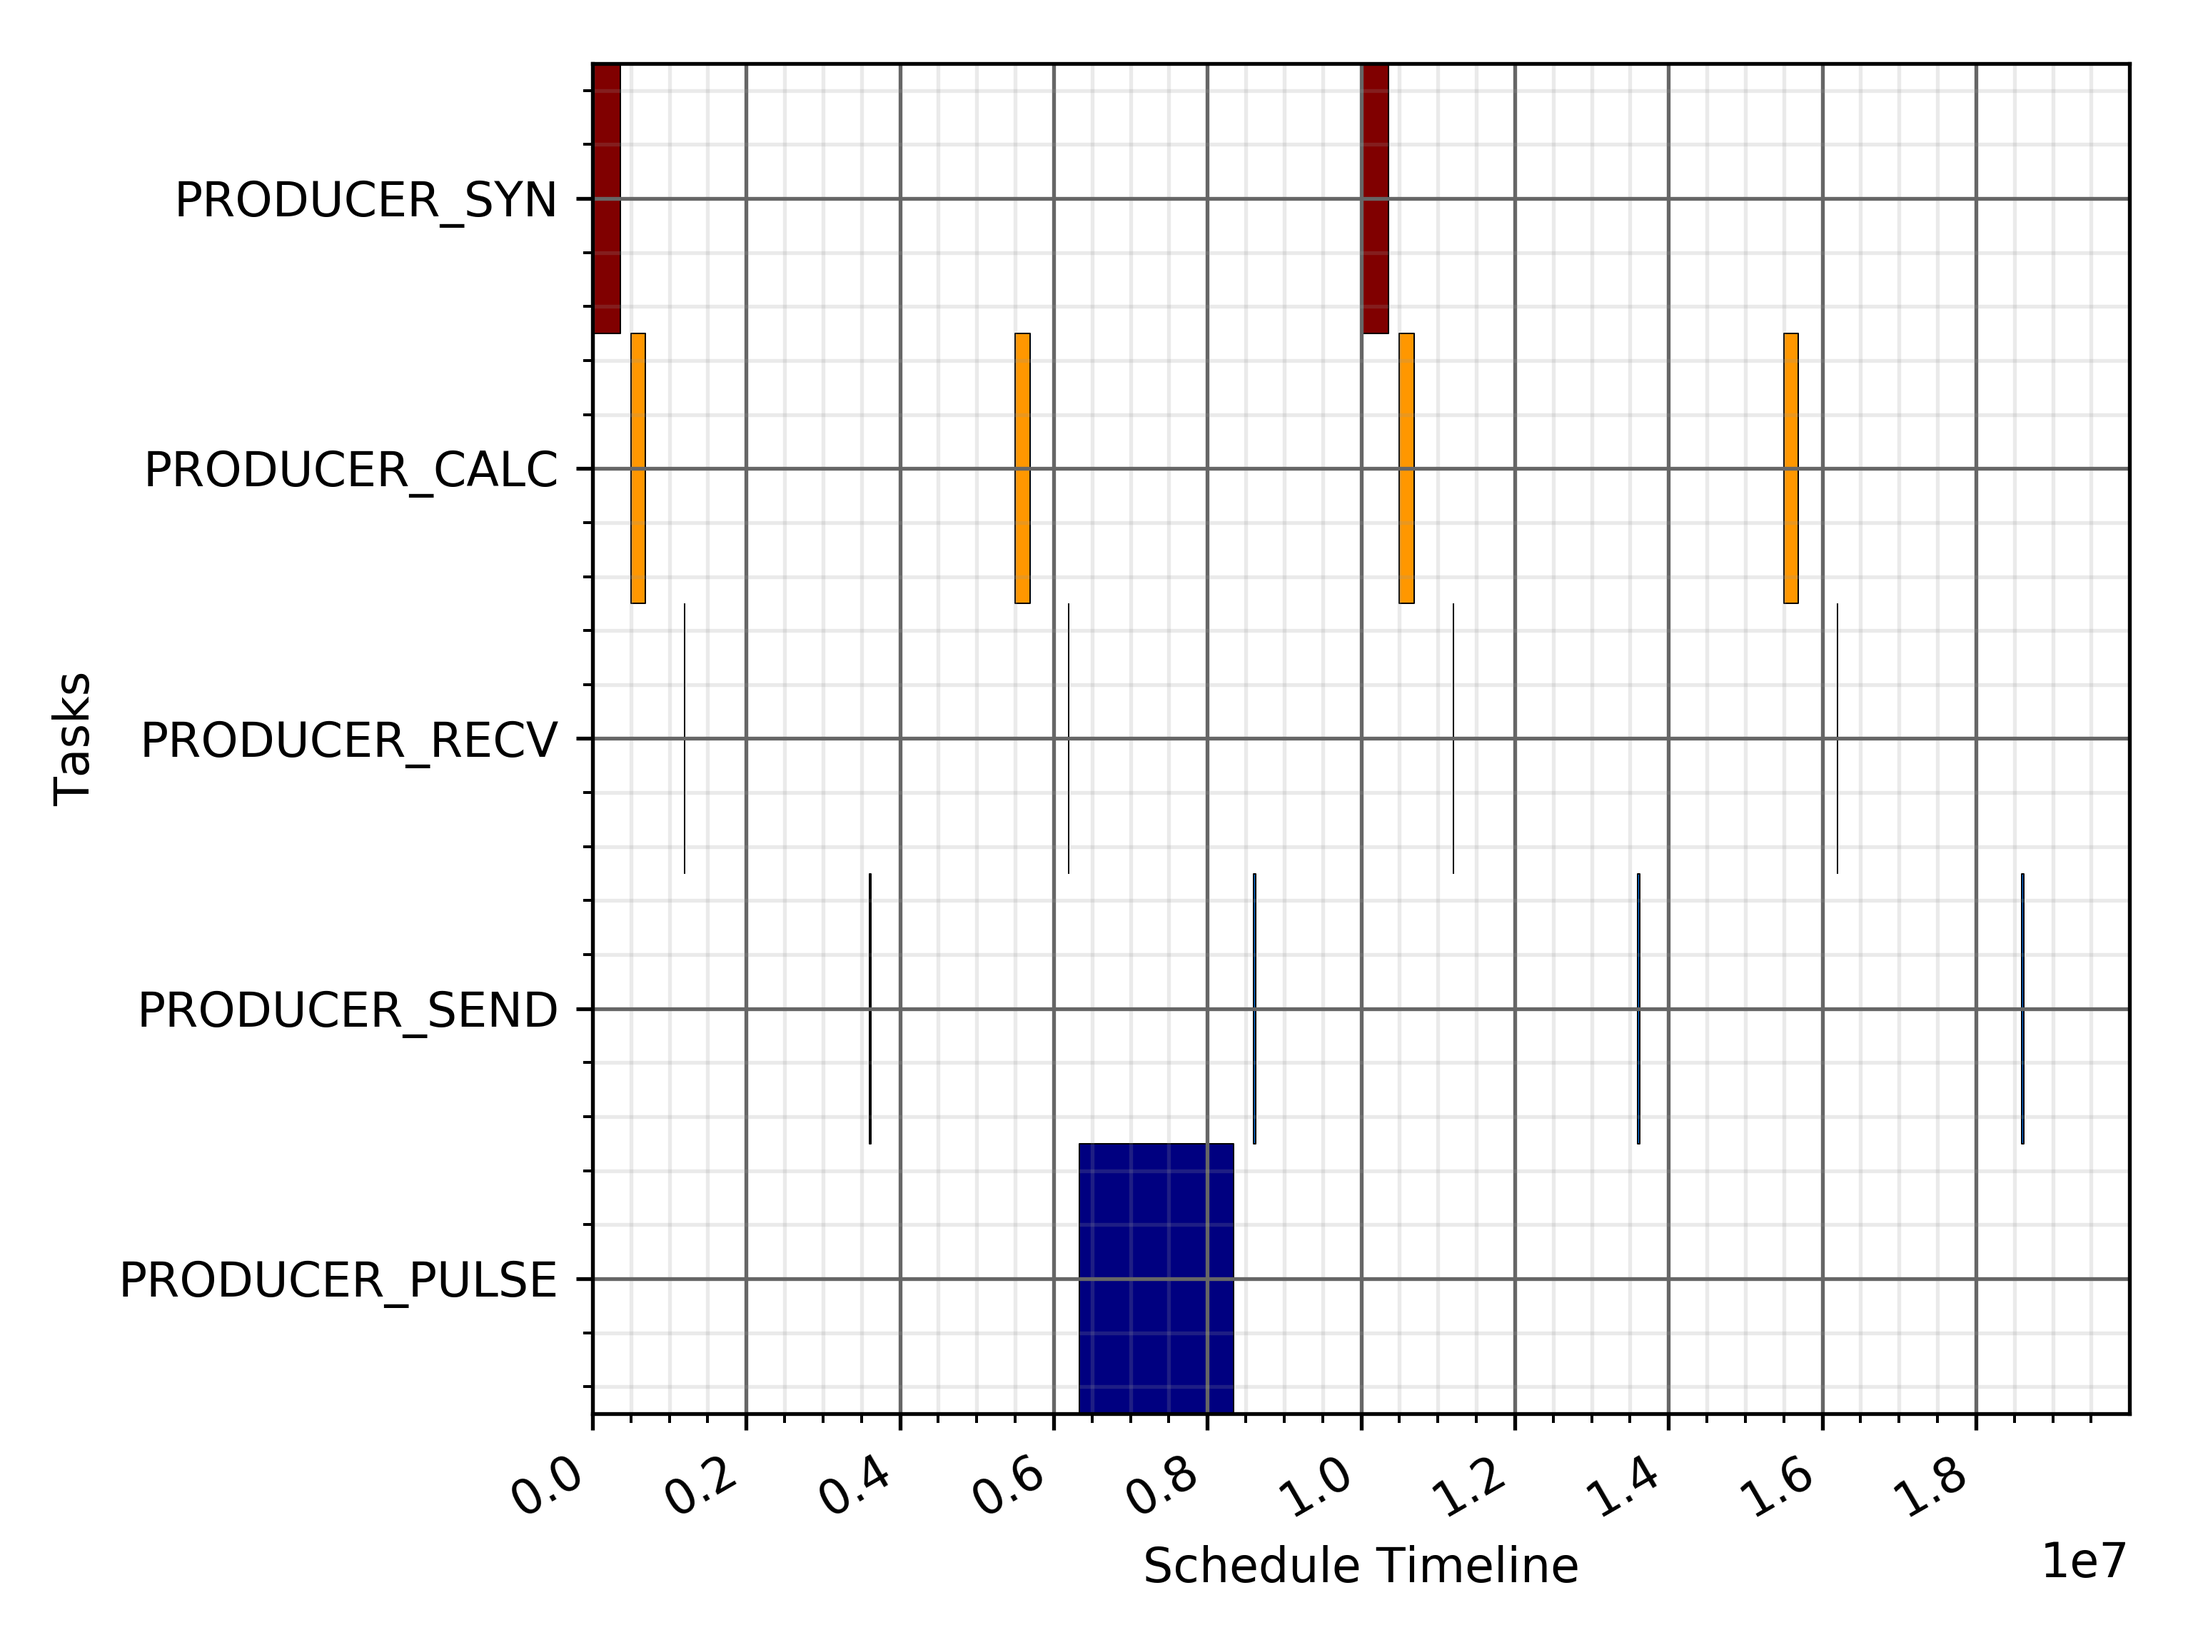
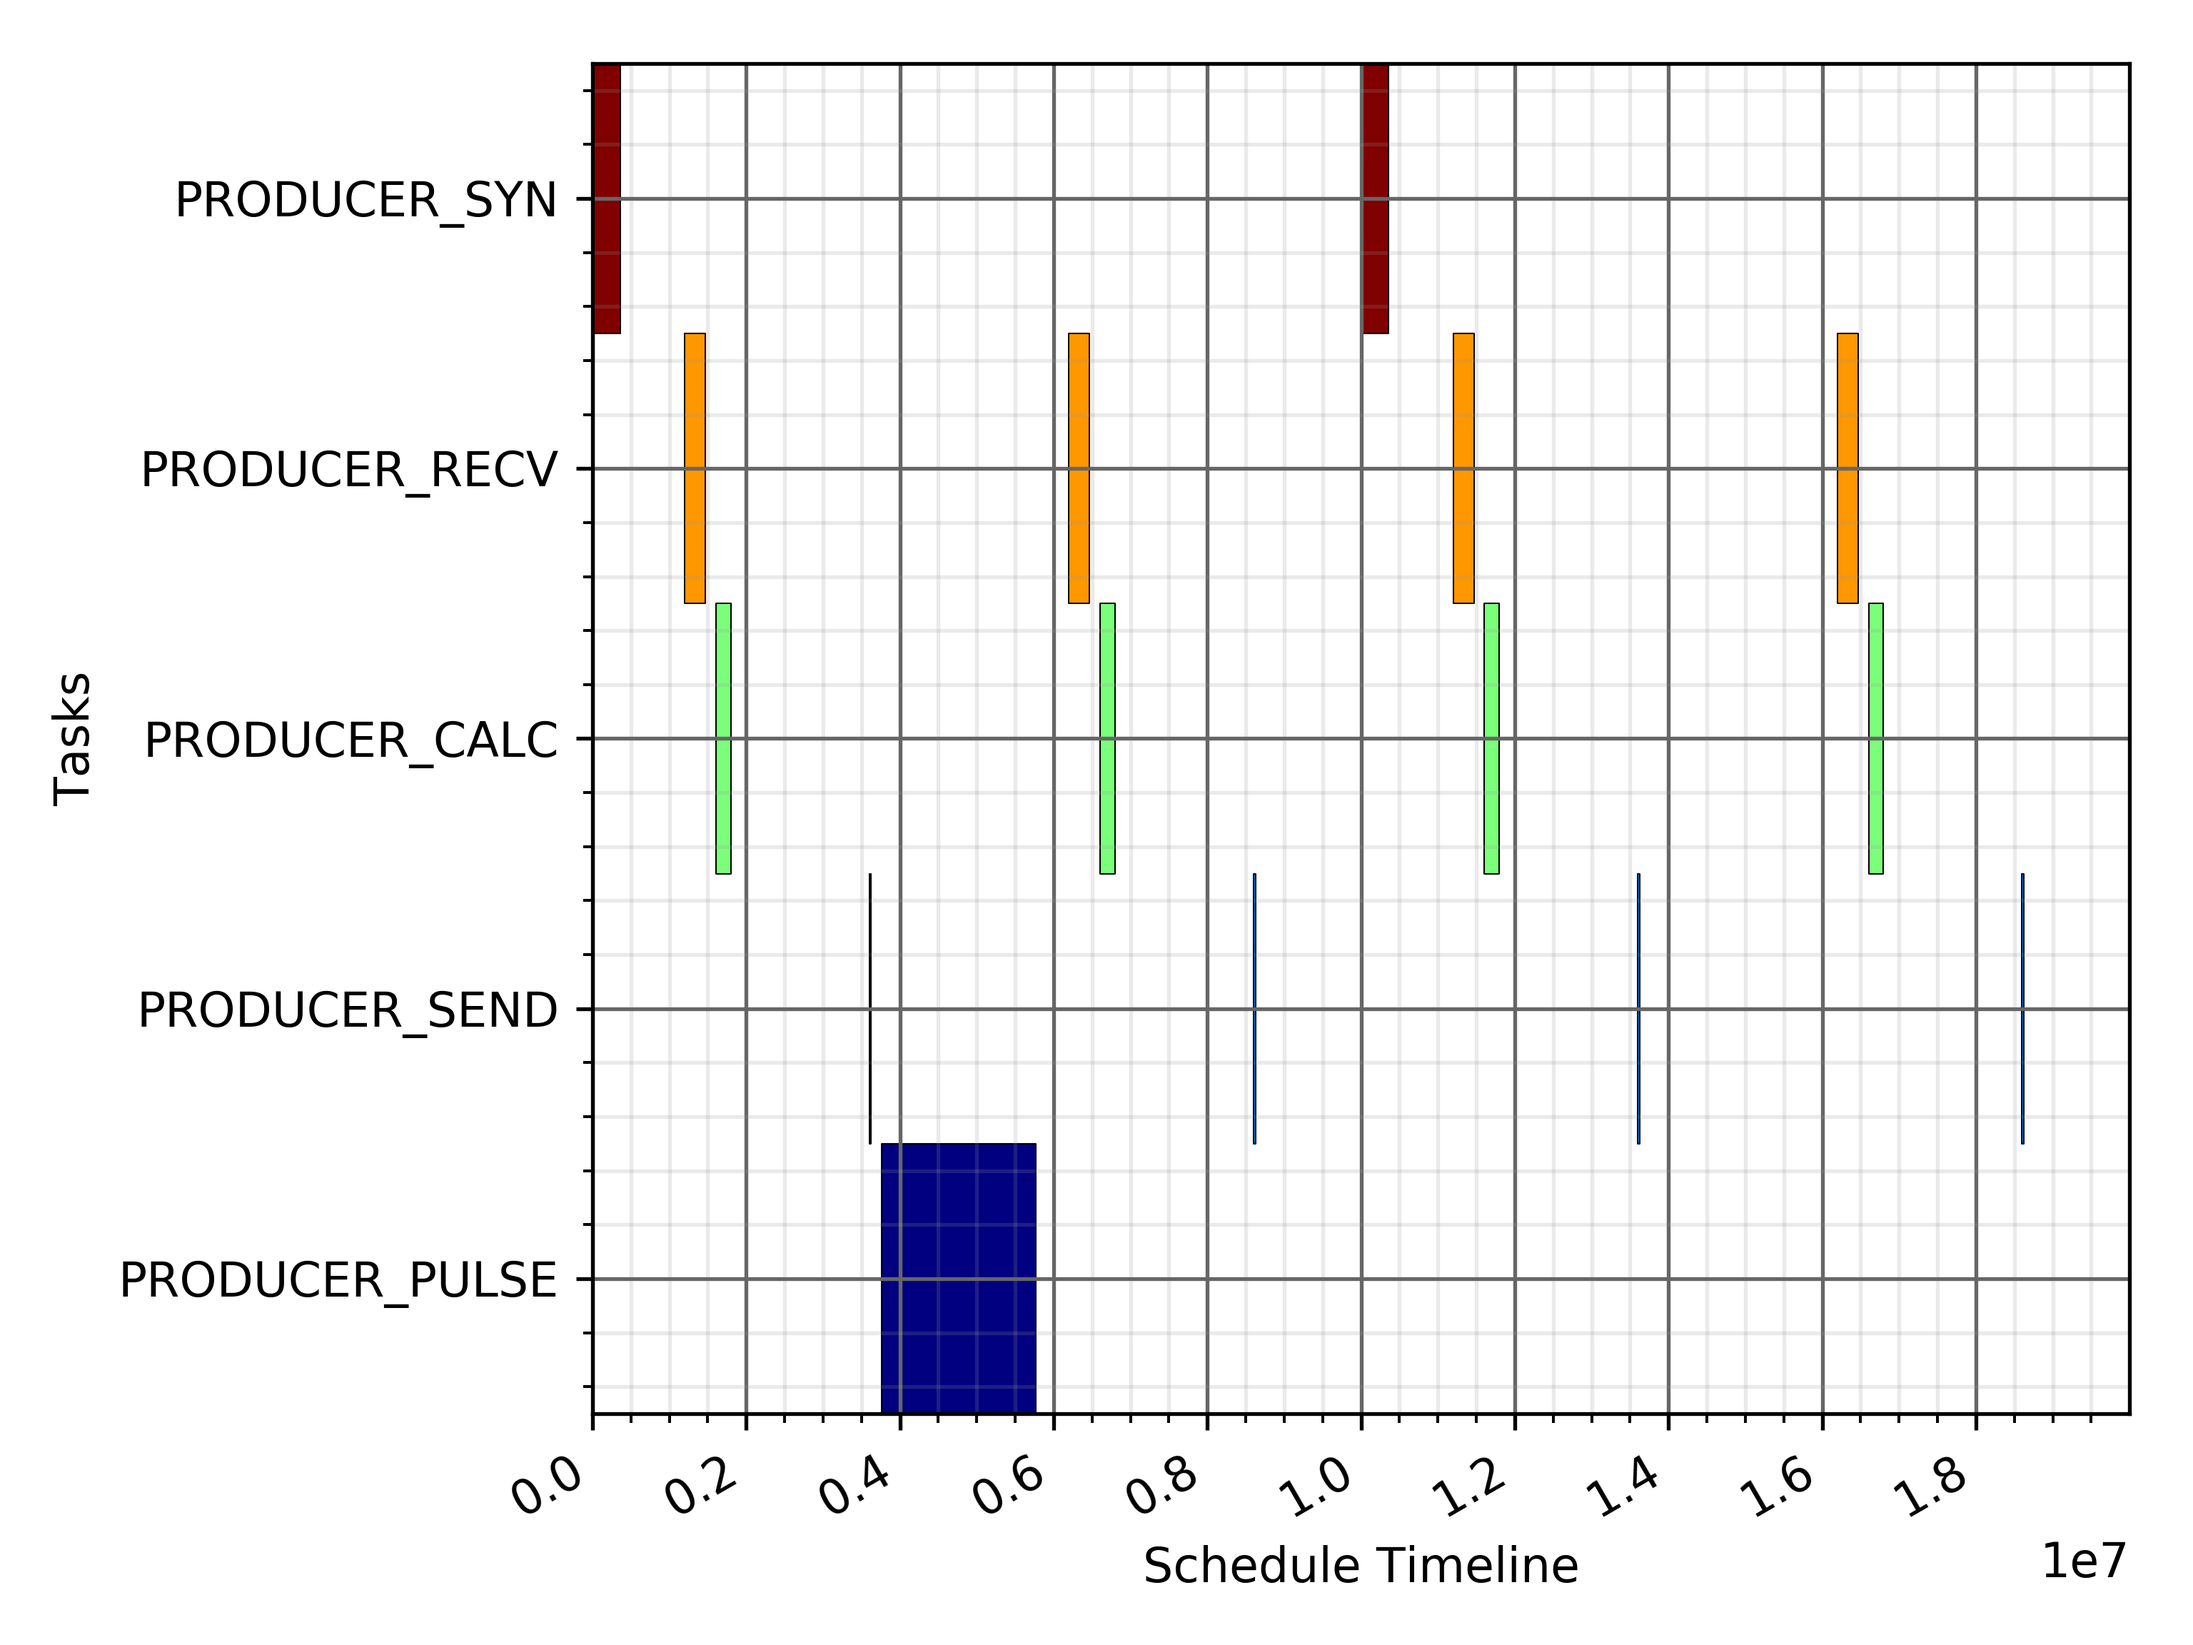
Optimization fixes and usage updates

diff --git a/SimpleSMTScheduler.py b/SimpleSMTScheduler.py
@@ -7,22 +7,23 @@ from simplesmtscheduler.utilities import *
 
 taskSet = []
 tasksFileName = ""
-scheduleFileName = ""
+plotFileName = ""
 schedulePlotPeriods = 1
 plot = True
 verbose = True
 interactive = False
+optimize = False
 
 if __name__ == "__main__":
     print("Welcome to this simple SMT scheduler (SSMTS)...\n")
 
     if len(sys.argv) > 1:
         try:
-            opts, args = getopt.getopt(sys.argv[1:], "hi:o:w:n:pvc",
-                                       ["help", "itasks=", "osched=", "wcet=", "nperiods=", "plot", "verbose",
+            opts, args = getopt.getopt(sys.argv[1:], "hi:w:p:n:ovc",
+                                       ["help", "itasks=", "wcet=", "plot=", "nperiods=", "optimize", "verbose",
                                         "code"])
         except getopt.GetoptError:
-            print('Try : SimpleSMTScheduler.py -i <inputtasks> -o <outputschedule> -w 35713 -n <plotperiods> -p -v')
+            print('Try : SimpleSMTScheduler.py -i <inputtasks> -w 35713 -p <outputplot> -n <plotperiods> -v -c')
             print("Or : SimpleSMTScheduler.py --help")
             sys.exit(2)
         plot = False
@@ -33,26 +34,27 @@ if __name__ == "__main__":
         jitter = 0
         for opt, arg in opts:
             if opt in ("-h", "--help"):
-                print('SimpleSMTScheduler.py -i <inputtasks> -o <outputschedule> -w 35713 -n <plotperiods> -p -v')
+                print('SimpleSMTScheduler.py -i <inputtasks> -w 35713 -p <outputplot> -n <plotperiods> -v -c')
                 print("-h\t--help")
                 print("-i\t--itasks")
-                print("-o\t--osched")
                 print("-w\t--wcet")
-                print("-n\t--nperiods")
                 print("-p\t--plot")
+                print("-n\t--nperiods")
+                print("-o\t--optimize")
                 print("-v\t--verbose")
                 print("-c\t--code")
                 sys.exit()
             elif opt in ("-i", "--itasks"):
                 tasksFileName = arg
-            elif opt in ("-o", "--osched"):
-                scheduleFileName = arg
             elif opt in ("-w", "--wcet"):
                 wcet_offset = int(arg)
+            elif opt in ("-p", "--plot"):
+                plotFileName = arg
+                plot = True
             elif opt in ("-n", "--nperiods"):
                 schedulePlotPeriods = int(arg)
-            elif opt in ("-p", "--plot"):
-                plot = True
+            elif opt in ("-o", "--optimize"):
+                optimize = True
             elif opt in ("-v", "--verbose"):
                 verbose = True
             elif opt in ("-c", "--code"):
@@ -79,15 +81,13 @@ if __name__ == "__main__":
     elif [t for t in taskSet if t.offset > t.period]:
         sys.exit("\nTask set is not valid.\nOffset times violate period constraints")
     else:
-        schedule, utilization, hyperPeriod, elapsedTime = gen_cyclic_schedule_model(taskSet, wcet_offset, verbose)
+        schedule, utilization, hyperPeriod, elapsedTime = gen_cyclic_schedule_model(taskSet, wcet_offset, optimize,
+                                                                                    verbose)
+        print("\nSolver completed in %s ms\n" % (elapsedTime * SEC_TO_MS))
+        print("Utilization = %s %%\n" % utilization)
+        print("Schedule hyper period = %s\n" % hyperPeriod)
         if schedule is not None:
             gen_schedule_activations(schedule, taskSet)
-
-            print("\nSolver completed in %s ms\n" % (elapsedTime * SEC_TO_MS))
-
-            print("Utilization = %s %%\n" % utilization)
-
-            print("Schedule hyper period = %s\n" % hyperPeriod)
 
             print("Name\tActivation Instances\t")
             for i in range(len(taskSet)):
@@ -99,7 +99,7 @@ if __name__ == "__main__":
                 schedulePlot.show()
             elif plot:
                 schedulePlot = plot_cyclic_schedule(taskSet, hyperPeriod, schedulePlotPeriods)
-                schedulePlot.savefig(scheduleFileName, dpi=MY_DPI)
+                schedulePlot.savefig(plotFileName, dpi=MY_DPI)
 
             if code:
                 gen_schedule_code(tasksFileName.replace(".csv", "_schedule.h"), tasksFileName, taskSet, hyperPeriod,

diff --git a/simplesmtscheduler/schedulers.py b/simplesmtscheduler/schedulers.py
@@ -7,11 +7,16 @@ def gen_cyclic_schedule_model(task_set, wcet_gap, optimize=False, verbose=False)
     # Find the hyper period
     hyper_period = find_lcm([o.period for o in task_set])
     utilization = sum(t.execution / t.period for t in task_set) * 100
-    # Define constraints
+    # Define solver
     if optimize:
         smt = Optimize()
+        smt.set('priority', 'pareto')
     else:
         smt = Solver()
+        smt.set('arith.solver', 3)
+        smt.set('arith.auto_config_simplex', True)
+    # Define constraints
+    opt_bounds = []
     for task in task_set:
         for nn in range(floor(hyper_period / task.period)):
             task.release_instances.append(Int(task.name + "_" + "inst_" + str(nn)))
@@ -25,15 +30,19 @@ def gen_cyclic_schedule_model(task_set, wcet_gap, optimize=False, verbose=False)
             smt.add(test_release_inst + test_task.execution <= hyper_period - wcet_gap)
             # If a task has a user fixed start PIT define it otherwise use offset
             if hasattr(test_task, 'fixed_pit'):
-                smt.add(test_release_inst == nn * test_task.period + test_task.fixed_pit)
+                smt.add(And(
+                    test_release_inst <= nn * test_task.period + test_task.fixed_pit + test_task.jitter,
+                    test_release_inst >= nn * test_task.period + test_task.fixed_pit - test_task.jitter
+                ))
             else:
                 smt.add(test_release_inst >= nn * test_task.period + test_task.offset)
             # Period constraint including jitter
             if prev_test_release_inst is not None:
-                smt.add(And(
-                    test_release_inst - prev_test_release_inst >= test_task.period - test_task.jitter,
-                    test_release_inst - prev_test_release_inst <= test_task.period + test_task.jitter
-                ))
+                # smt.add(And(
+                #     test_release_inst - prev_test_release_inst >= test_task.period - test_task.jitter,
+                #     test_release_inst - prev_test_release_inst <= test_task.period + test_task.jitter
+                # ))
+                smt.add(test_release_inst - prev_test_release_inst >= test_task.period)
             # Each task should finish within the deadline with jitter
             smt.add(test_task.release_instances[
                         nn] + test_task.execution <= nn * test_task.period + test_task.deadline + test_task.jitter)
@@ -46,8 +55,11 @@ def gen_cyclic_schedule_model(task_set, wcet_gap, optimize=False, verbose=False)
                             test_release_inst >= other_release_inst + other_task.execution + wcet_gap
                         ))
             if optimize:
-                h = smt.minimize(test_release_inst)
+                opt_bounds.append((test_release_inst, smt.minimize(test_release_inst)))
             prev_test_release_inst = test_release_inst
+        # if optimize:
+        #     opt_bounds.append((test_task, smt.minimize(Sum(test_task.release_instances))))
+
     # Try to solve
     elapsed_time = 0
     start_time = time()
@@ -56,18 +68,18 @@ def gen_cyclic_schedule_model(task_set, wcet_gap, optimize=False, verbose=False)
         elapsed_time = time() - start_time
     else:
         solution_model = None
-        time() - start_time
+        elapsed_time = time() - start_time
 
     if verbose:
-        print("\nModel Solution:")
-        print(solution_model)
-        if optimize:
-            print("\nOptimization space:")
-            print(h.lower())
-            print(h.upper())
         print("\nAsserted constraints...")
         for c in smt.assertions():
             print(c)
+        print("\nModel Solution:")
+        print(solution_model)
+        if optimize:
+            print("\nOptimization bounds:")
+            for o_bound in opt_bounds:
+                print(f"\t{o_bound[0]}: (lower = {o_bound[1].lower()}, upper = {o_bound[1].upper()})")
         print("\nZ3 statistics...")
         for k, v in smt.statistics():
             print("%s : %s" % (k, v))

diff --git a/examples/tte_producer_schedule.h b/examples/tte_producer_schedule.h
@@ -3,7 +3,7 @@
 /*
  * This file was generated using SimpleSMTScheduler (https://github.com/egk696/SimpleSMTScheduler)
  * Generated schedule based on task set defined in examples/tte_producer.csv
- * Scheduled Task Set Utilization = 17.991685 %
+ * Scheduled Task Set Utilization = 23.333445 %
  */
 
 #define NUM_OF_TASKS 5
@@ -31,9 +31,9 @@ unsigned long long tasks_periods[NUM_OF_TASKS] = {PRODUCER_SYN_PERIOD, PRODUCER_
 unsigned tasks_insts_counts[NUM_OF_TASKS] = {PRODUCER_SYN_INSTS_NUM, PRODUCER_CALC_INSTS_NUM, PRODUCER_SEND_INSTS_NUM, PRODUCER_RECV_INSTS_NUM, PRODUCER_PULSE_INSTS_NUM};
 
 unsigned long long PRODUCER_SYN_sched_insts[PRODUCER_SYN_INSTS_NUM] = {0, 10000000};
-unsigned long long PRODUCER_CALC_sched_insts[PRODUCER_CALC_INSTS_NUM] = {498075, 5498075, 10498075, 15498075};
+unsigned long long PRODUCER_CALC_sched_insts[PRODUCER_CALC_INSTS_NUM] = {1605188, 6605188, 11605188, 16605188};
 unsigned long long PRODUCER_SEND_sched_insts[PRODUCER_SEND_INSTS_NUM] = {3600000, 8600000, 13600000, 18600000};
 unsigned long long PRODUCER_RECV_sched_insts[PRODUCER_RECV_INSTS_NUM] = {1200000, 6200000, 11200000, 16200000};
-unsigned long long PRODUCER_PULSE_sched_insts[PRODUCER_PULSE_INSTS_NUM] = {6338100};
+unsigned long long PRODUCER_PULSE_sched_insts[PRODUCER_PULSE_INSTS_NUM] = {3764200};
 
 unsigned long long *tasks_schedules[NUM_OF_TASKS] = {PRODUCER_SYN_sched_insts, PRODUCER_CALC_sched_insts, PRODUCER_SEND_sched_insts, PRODUCER_RECV_sched_insts, PRODUCER_PULSE_sched_insts};

diff --git a/examples/tte_consumer_schedule.h b/examples/tte_consumer_schedule.h
@@ -3,7 +3,7 @@
 /*
  * This file was generated using SimpleSMTScheduler (https://github.com/egk696/SimpleSMTScheduler)
  * Generated schedule based on task set defined in examples/tte_consumer.csv
- * Scheduled Task Set Utilization = 21.171445 %
+ * Scheduled Task Set Utilization = 21.693445 %
  */
 
 #define NUM_OF_TASKS 5
@@ -34,6 +34,6 @@ unsigned long long CONSUMER_SYN_sched_insts[CONSUMER_SYN_INSTS_NUM] = {0, 100000
 unsigned long long CONSUMER_CALC_sched_insts[CONSUMER_CALC_INSTS_NUM] = {4405188, 9405188, 14405188, 19405188};
 unsigned long long CONSUMER_SEND_sched_insts[CONSUMER_SEND_INSTS_NUM] = {800000, 5800000, 10800000, 15800000};
 unsigned long long CONSUMER_RECV_sched_insts[CONSUMER_RECV_INSTS_NUM] = {4000000, 9000000, 14000000, 19000000};
-unsigned long long CONSUMER_PULSE_sched_insts[CONSUMER_PULSE_INSTS_NUM] = {6338100};
+unsigned long long CONSUMER_PULSE_sched_insts[CONSUMER_PULSE_INSTS_NUM] = {5964200};
 
 unsigned long long *tasks_schedules[NUM_OF_TASKS] = {CONSUMER_SYN_sched_insts, CONSUMER_CALC_sched_insts, CONSUMER_SEND_sched_insts, CONSUMER_RECV_sched_insts, CONSUMER_PULSE_sched_insts};

diff --git a/README.md b/README.md
@@ -105,19 +105,21 @@ The available arguments are the following:
 
 `-i (--itasks)` accepts as input the path to the tasks CSV file
 
-`-j (--jitter)` accepts as input the jitter gap to be allocated between tasks
+`-w (--wcet)` accepts as input WCET gap to be allocated between tasks
   
-`-o (--osched)` accepts as input the path for the generated schedule plot
+`-p (--plot)` accepts as input the path for the generated schedule plot
 
 `-n (--nperiods)` controls the plotted number of hyper periods
 
-`-p (--plot)` enables plotting
+`-o (--optimize)` enables optimization
 
 `-v (--verbose)` enables display of generated constraints and statistics
 
+`-c (--code)` enables C header file code generation
+
 A typical example of six tasks with WCET inter-task allocation gap 50 is shown below:
 
-<pre><font color="#729FCF"><b>~/SimpleSMTScheduler</b></font>$ python3 SimpleSMTScheduler.py -i examples/simple_tasks.csv -w 50
+<pre><font color="#729FCF"><b>~/SimpleSMTScheduler</b></font>$ python3 SimpleSMTScheduler.py -w 50 -p examples/simple_tasks.csv
 
 Welcome to this simple SMT scheduler (SSMTS)...
 Importing task set from file source...
